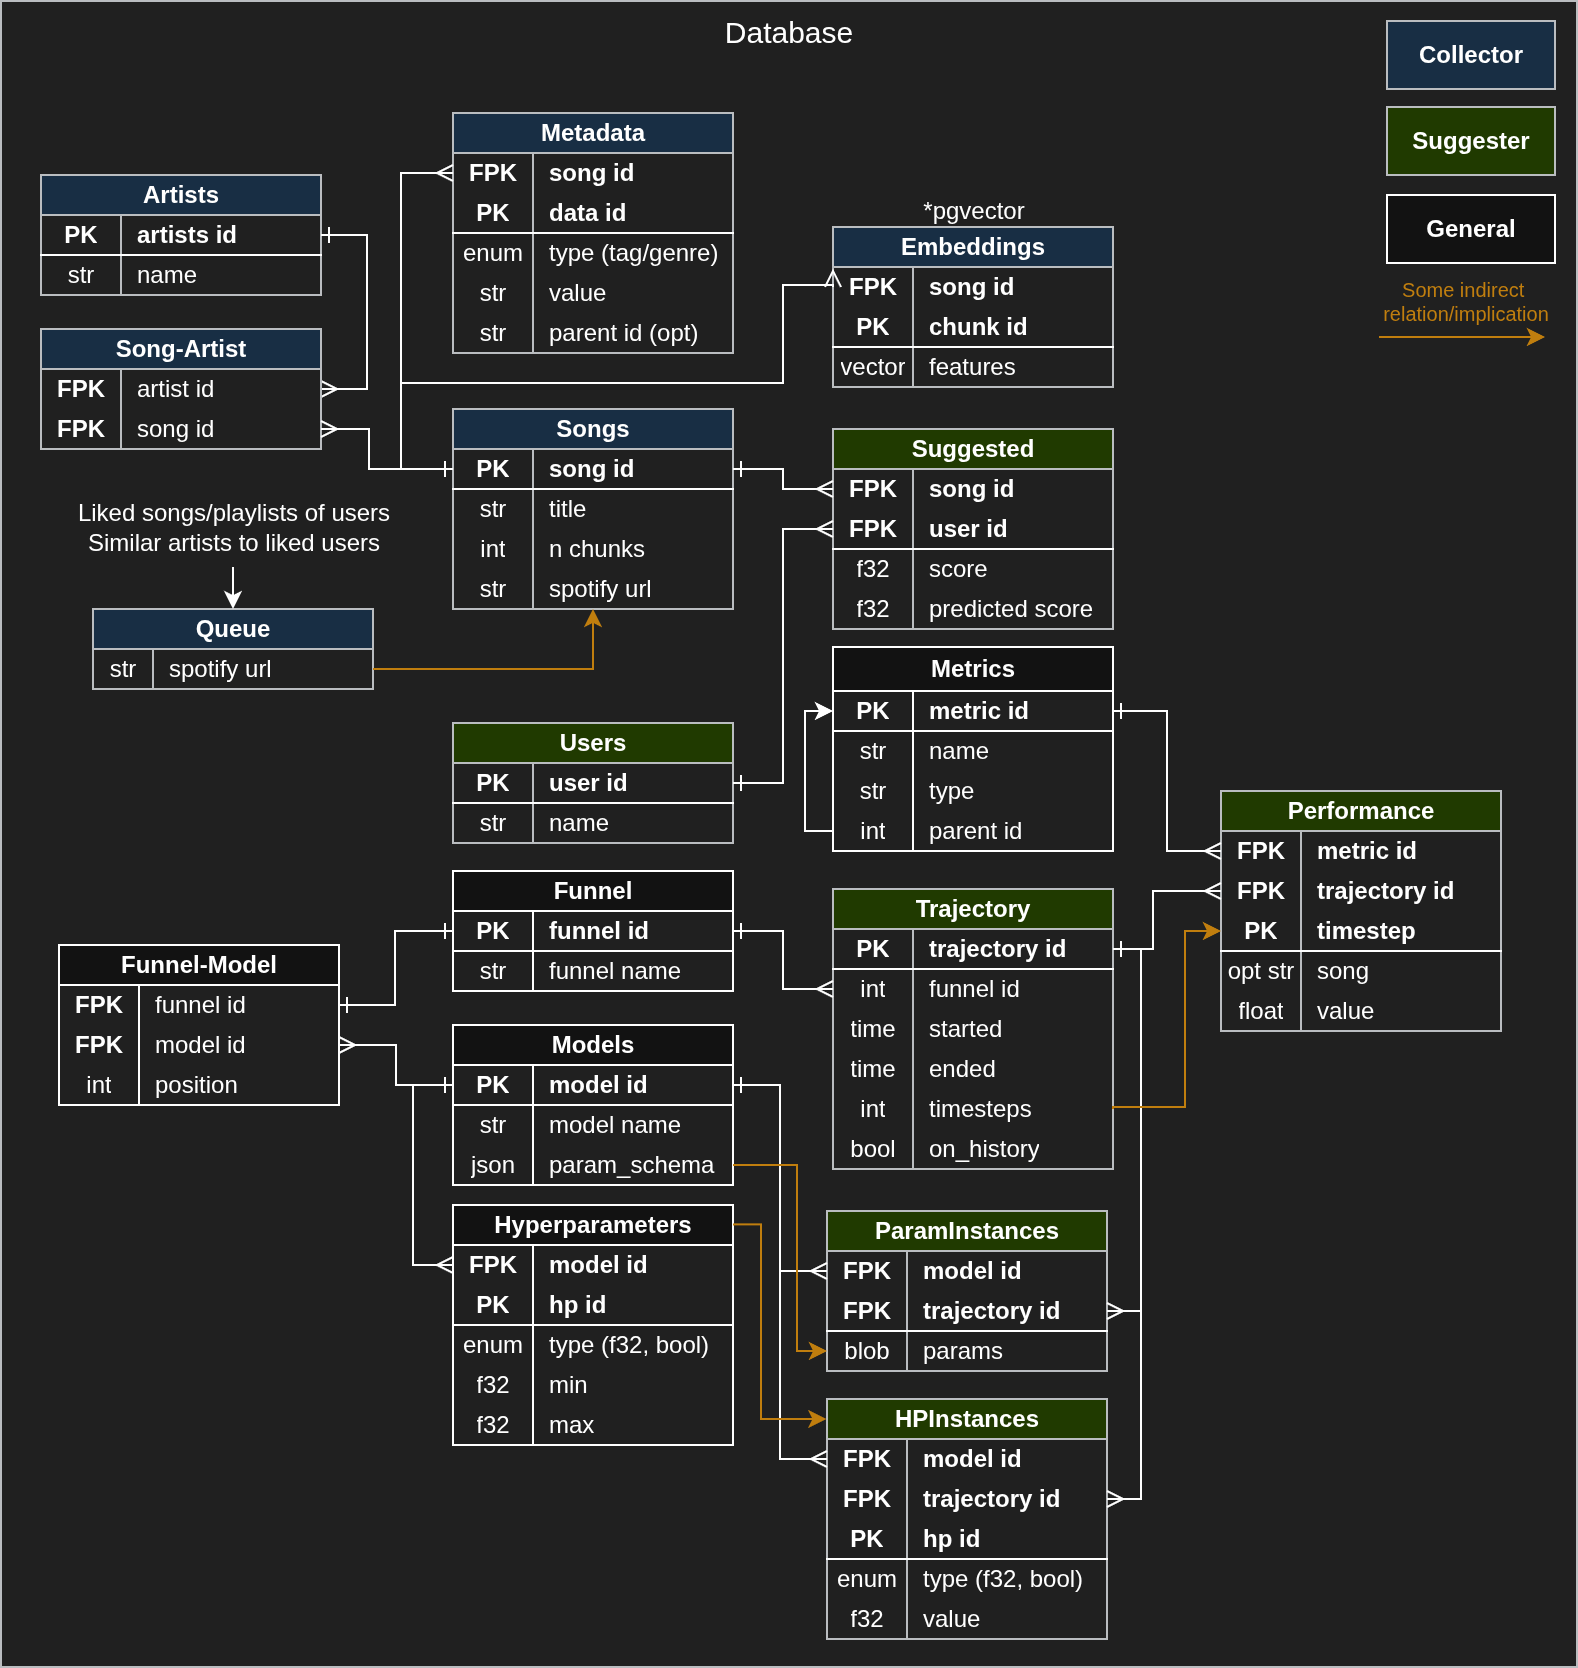
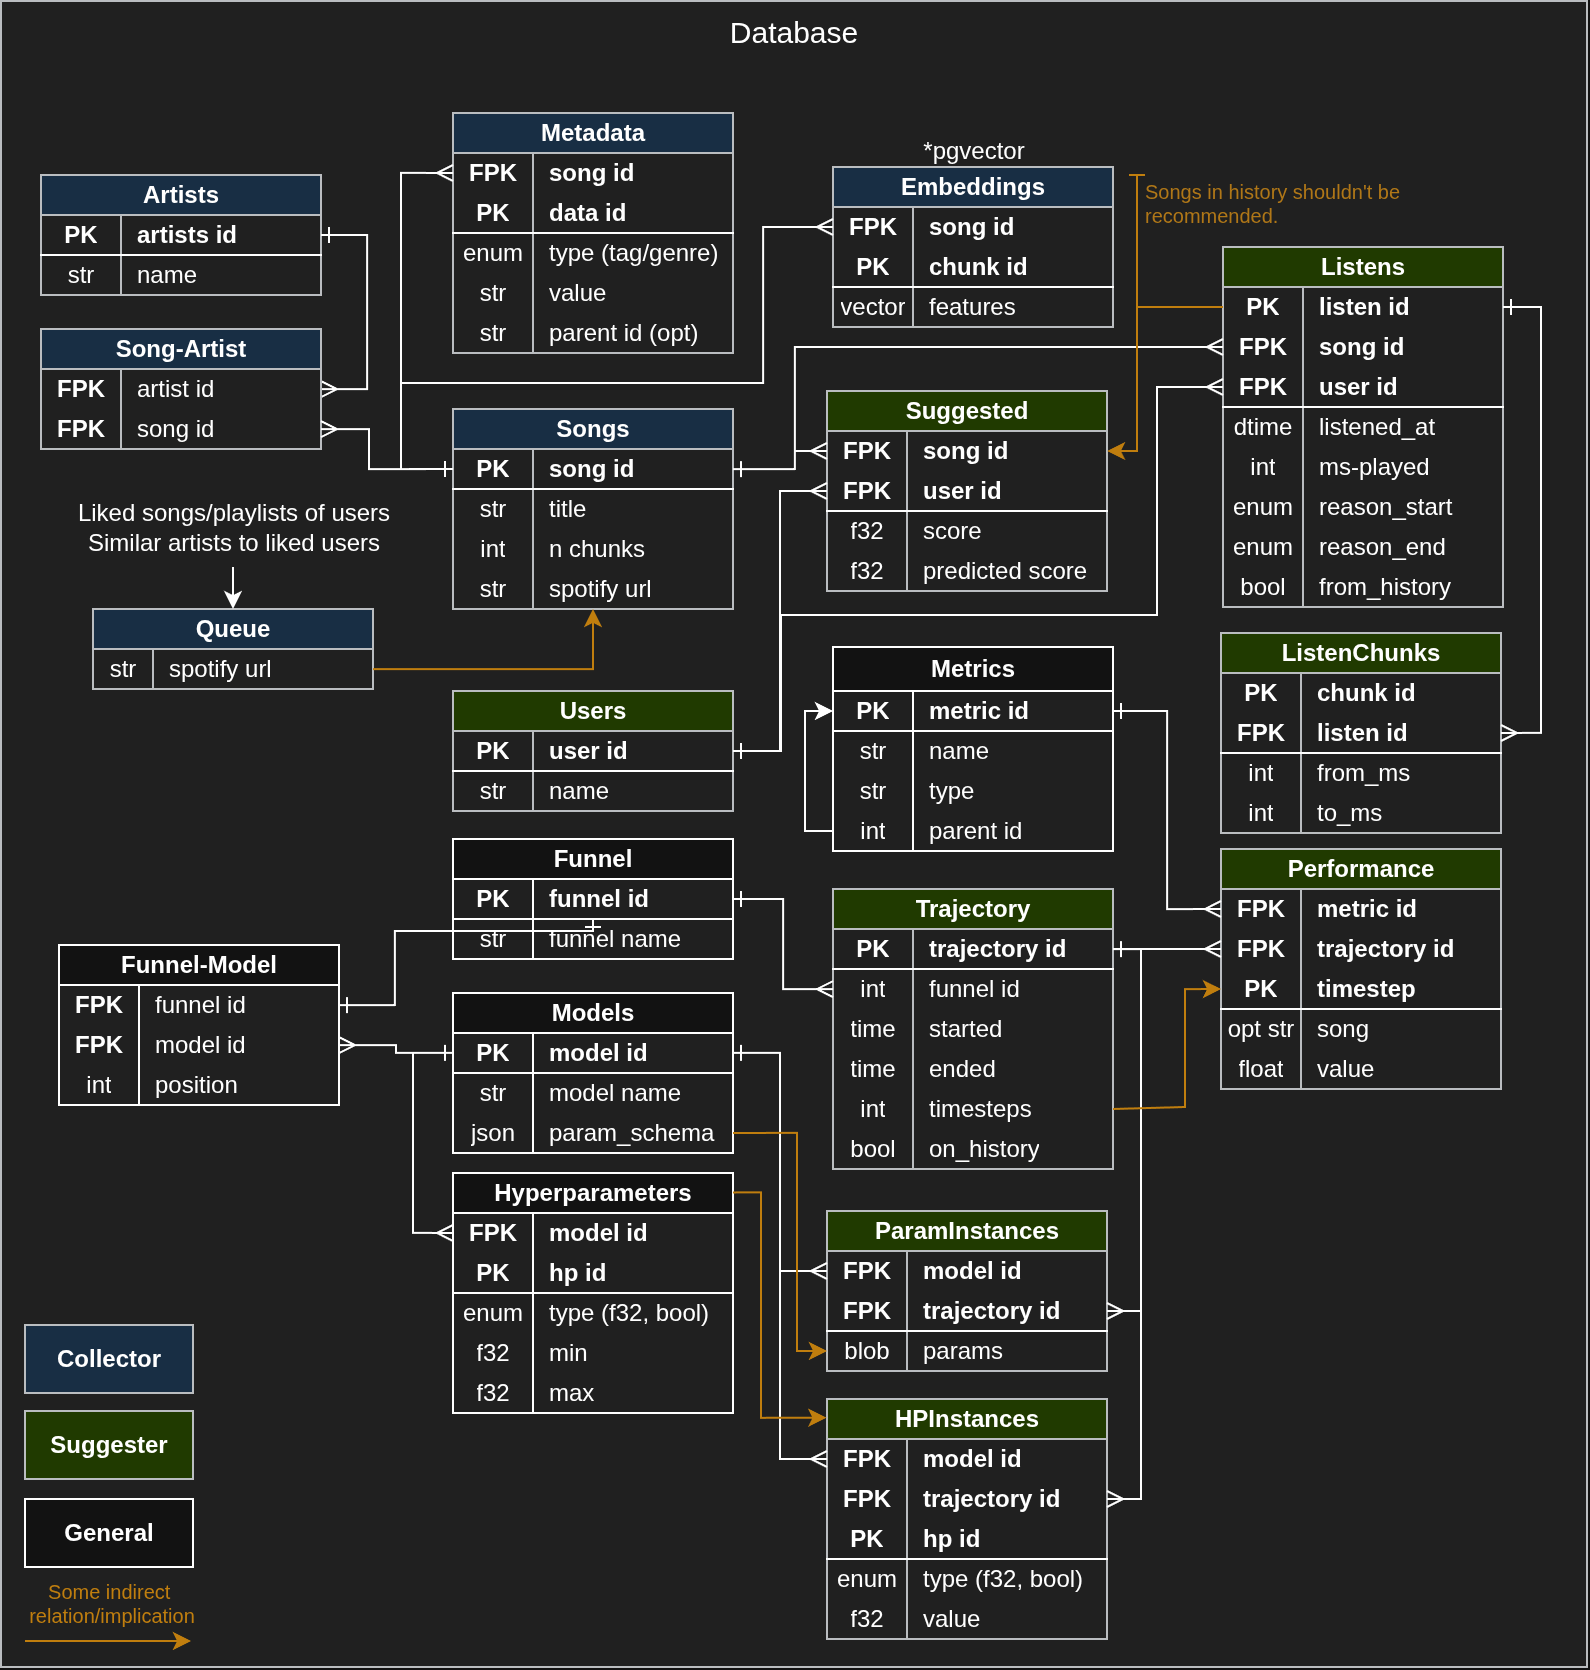
DB diagram

diff --git a/src/collecter/metadata.py b/src/collecter/metadata.py
@@ -583,7 +583,7 @@ async def add_history_listens(user_spotify_id: str, history: list[dict]):
     LOGGER.info(f"Adding {len(history)} history listens for user {user_spotify_id}")
 
     history = [{**listen,
-                "source": "history",
+                "from_history": True,
                 "spotify_id": listen["spotify_track_uri"].split(":")[-1],
                 "listened_at": listen["ts"],
                 "reason_start": START_REASON_MAP[listen["reason_start"]],

diff --git a/src/models.py b/src/models.py
@@ -118,7 +118,7 @@ class Listen(Base):
                         default=StartEndReason.unknown, 
                         nullable=False)
 
-    source = Column(String(64))
+    from_history = Column(Boolean, default=False)
 
     chunks = relationship("ListenChunk", back_populates="listen", cascade="all, delete-orphan")
 

diff --git a/README.md b/README.md
@@ -7,13 +7,4 @@
 For any questions about the project, check out the extra notes PDF.
 
 ## File/Folder structure:
-- **src/objects.py** contains the primitives set up to construct models and track metrics used for plotting;
-- **src/plots.py** contains custom plotting tools;
-- **src/reduce.py** contains PCA and UMAP related functionality;
-- **src/data_visualizations.py** is a Marimo notebook with examples of custom plots in use.
-- **src/quickstart.py** is a Marimo notebook containing a demo of the project;
-- **src/metrics** contains metrics for general use and linear-specific models;
-- **src/models** contains the suggestion models defined for the project.
-
-
-
+- To be written.
